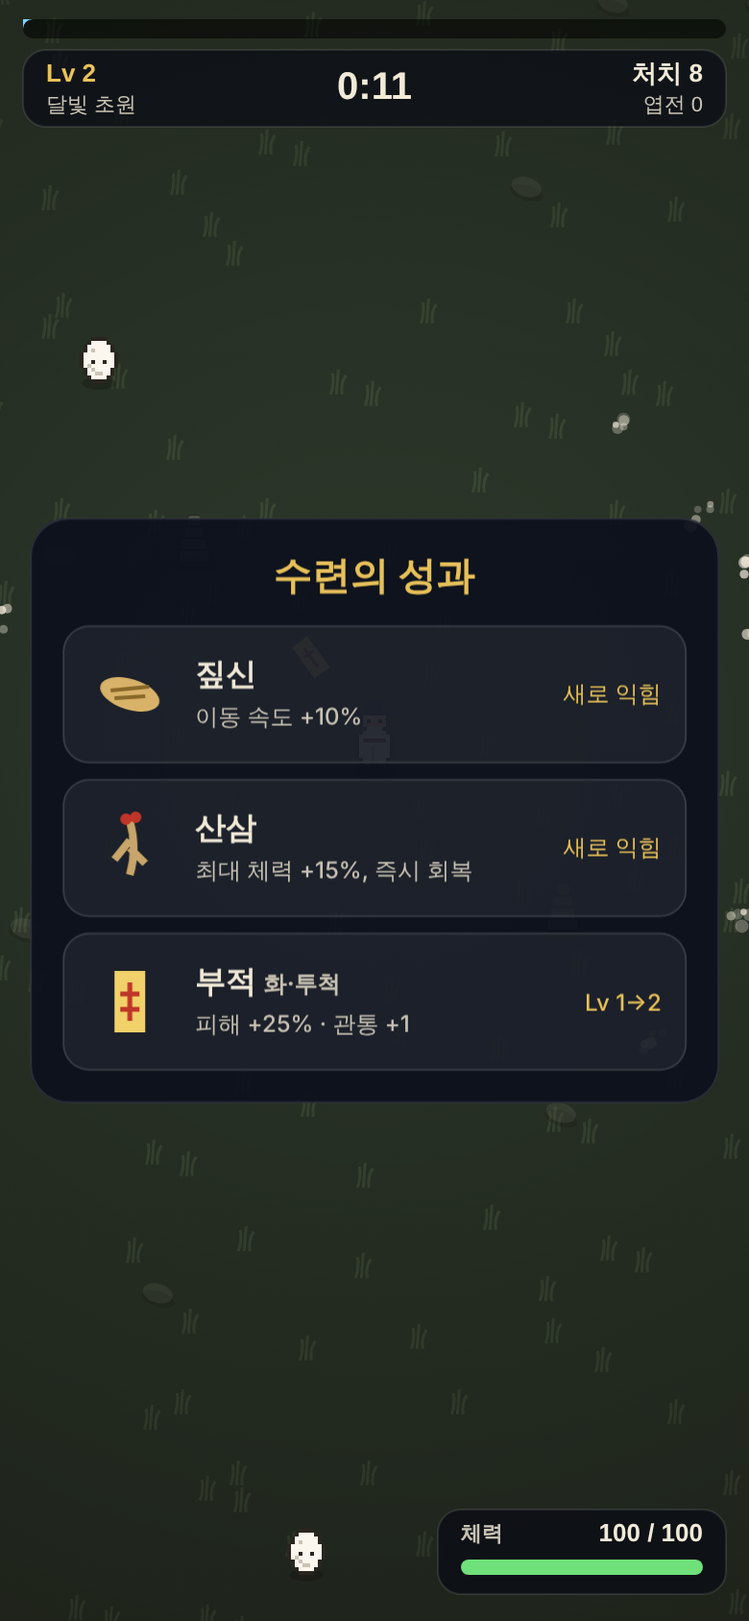
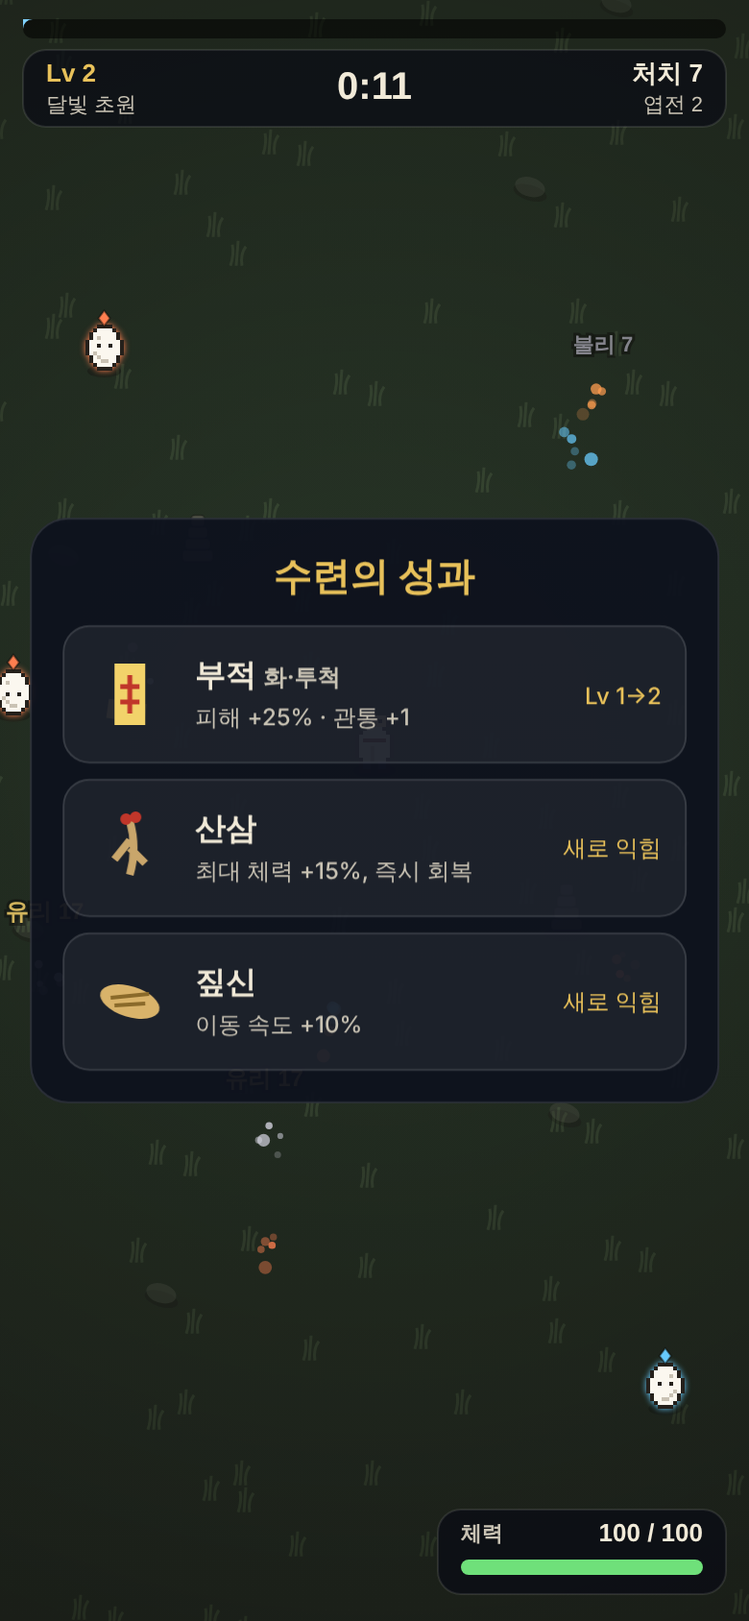
밤의 퇴마사 M3①: 요괴 21종(스테이지 전용 5+2)·스테이지 속성 3 랜덤 부여·보스 고정·선택 화면 표시·도감 그룹
- 귀신의 숲: 달토끼 혼령·처녀귀신·부엉귀·산삼 정령·나무귀신 / 백호(금)·대지네(목)
- 업화 폐사지: 흑까마귀·화마·원귀·골승·석장승 / 재귀(화)·야차왕(금)
- 픽셀 스프라이트 14종, drawEnemy 데이터 주도(anim/sc), 속성 빛 테두리
- 스테이지 4~6 예정 칸, m3-test 8/8

Claude-Session: https://claude.ai/code/session_01RmJvEQYZMU41pMZMsu4AKq

diff --git a/games/night-exorcist/index.html b/games/night-exorcist/index.html
@@ -120,11 +120,15 @@ const TEST = /[?&]test=1/.test(location.search);
 // 수식 — docs/04-night-exorcist/sim/run-sim.mjs 와 동일
 const C = { RUN:600, SPAWN0:1.2, SPAWN_K:.006, HP0:10, HP_G:1.0032, CAP:60, CONTACT:3, HP_PLAYER:100, REGEN:.35, LVL_XP0:12, LVL_XP_G:1.18,
   BOSS1_AT:300, BOSS1_HP:40, BOSS2_AT:540, BOSS2_HP:120, SPEED:110, PICK_R:70, META_G:1.0, META_D:.9 };
+// 스테이지: els = 이 밤에 나오는 속성 3개(잡몹·정예는 스폰 시 랜덤), roster = 전용 잡몹 5, bosses = 전용 보스 2(속성 고정)
 const STAGES = [
-  { id:'field',  name:'달빛 초원',   mul:1.0,  ground:['#17231a','#121b15'], fog:'rgba(120,150,110,.06)', roster:['egg','jiangshi','fire'],   bound:0,   obst:null },
-  { id:'forest', name:'귀신의 숲',   mul:1.45, ground:['#121a16','#0c120f'], fog:'rgba(120,160,140,.12)', roster:['egg','fire','water'],      bound:280, obst:{ tree:.55 } },
-  { id:'temple', name:'업화 폐사지', mul:1.8,  ground:['#1f1612','#140e0b'], fog:'rgba(200,120,60,.08)',  roster:['jiangshi','fire','gumiho'], bound:0,   obst:{ wall:.35, fire:.3 } },
+  { id:'field',  name:'달빛 초원',   mul:1.0,  ground:['#17231a','#121b15'], fog:'rgba(120,150,110,.06)', els:['fire','metal','water'], roster:['egg','fire','water','jiangshi','gumiho'],                 bosses:['boss1','boss2'],       bound:0,   obst:null },
+  { id:'forest', name:'귀신의 숲',   mul:1.45, ground:['#121a16','#0c120f'], fog:'rgba(120,160,140,.12)', els:['wood','water','metal'], roster:['moonhare','maiden','owl','ginseng','treeghost'],          bosses:['whitetiger','centipede'], bound:280, obst:{ tree:.55 } },
+  { id:'temple', name:'업화 폐사지', mul:1.8,  ground:['#1f1612','#140e0b'], fog:'rgba(200,120,60,.08)',  els:['fire','wood','metal'],  roster:['crowflock','flamefiend','wraith','skullmonk','stonestatue'], bosses:['phoenix','yaksha'],    bound:0,   obst:{ wall:.35, fire:.3 } },
+  { id:'p4', name:'(예정)', soon:true }, { id:'p5', name:'(예정)', soon:true }, { id:'p6', name:'(예정)', soon:true },
 ];
+const STAGES_LIVE = STAGES.filter(s => !s.soon);
+const nStages = () => STAGES_LIVE.length;
 const ELITE_AT = [90, 180, 270, 390, 480];   // 정예 등장 시각
 const CHEST = [{ g:'일반', n:1, p:.6, col:'#c9c3b4' }, { g:'레어', n:3, p:.3, col:'#7fd1ff' }, { g:'에픽', n:5, p:.1, col:'#d08cff' }];
 const ARMOR_SPD = { none:1, light:1.12, heavy:.88 };   // 방어구 타입별 이속 편차
@@ -182,14 +186,32 @@ const SND = {
 
 // ───────── 데이터: 적·무기·패시브 ─────────
 const ENEMY = {
-  // el: 속성(화·수·목·금·무) · armor: 방어구(none 보통 / light 가벼움·빠름 / heavy 무거움·느림) — 상성 계수는 덱 시스템과 함께 (M2)
-  egg:      { name:'달걀귀신', hp:1.0, spd:74,  r:11, xp:1, col:'#f0e9dc', from:0,   el:'none',  armor:'none' },
-  fire:     { name:'도깨비불', hp:0.5, spd:125, r:9,  xp:1, col:'#6fd3ff', from:60,  el:'fire',  armor:'light' },
-  jiangshi: { name:'강시',     hp:2.6, spd:84,  r:13, xp:3, col:'#6a8bd8', from:150, el:'metal', armor:'heavy', hop:true },
-  water:    { name:'물귀신',   hp:1.6, spd:92,  r:12, xp:2, col:'#8fd8c8', from:90,  el:'water', armor:'none' },
-  gumiho:   { name:'구미호',   hp:3.5, spd:108, r:14, xp:4, col:'#ffb36b', from:200, el:'wood',  armor:'light' },
-  boss1:    { name:'두억시니', hp:C.BOSS1_HP, spd:70, r:30, xp:40,  col:'#c0463a', boss:true, el:'fire',  armor:'heavy', patterns:['dash','shoot'] },
-  boss2:    { name:'이무기',   hp:C.BOSS2_HP, spd:80, r:38, xp:120, col:'#3fa06a', boss:true, el:'water', armor:'none',  patterns:['dash','pool'] },
+  // armor: 방어구(none 보통 / light 가벼움·빠름 / heavy 무거움·느림). 속성은 스테이지 els 중 스폰 시 랜덤 — 보스만 el 고정
+  // spr: 스프라이트 그리드 · anim: walk(좌우 반전 보행) / float(둥실) / hop(강시) / flicker(빠른 깜빡임) · sc: 배율
+  // ── 달빛 초원
+  egg:        { name:'달걀귀신', hp:1.0, spd:74,  r:11, xp:1, from:0,   armor:'none',  spr:'egg',      anim:'walk' },
+  fire:       { name:'도깨비불', hp:0.5, spd:125, r:9,  xp:1, from:60,  armor:'light', spr:'fire',     anim:'flicker' },
+  water:      { name:'물귀신',   hp:1.6, spd:92,  r:12, xp:2, from:90,  armor:'none',  spr:'water',    anim:'float' },
+  jiangshi:   { name:'강시',     hp:2.6, spd:84,  r:13, xp:3, from:150, armor:'heavy', spr:'jiangshi', anim:'hop', hop:true },
+  gumiho:     { name:'구미호',   hp:3.5, spd:108, r:14, xp:4, from:200, armor:'light', spr:'gumiho',   anim:'walk' },
+  boss1:      { name:'두억시니', hp:C.BOSS1_HP, spd:70, r:30, xp:40,  boss:true, el:'fire',  armor:'heavy', patterns:['dash','shoot'], spr:'boss1', sc:1.6 },
+  boss2:      { name:'이무기',   hp:C.BOSS2_HP, spd:80, r:38, xp:120, boss:true, el:'water', armor:'none',  patterns:['dash','pool'],  spr:'boss2', sc:2.0 },
+  // ── 귀신의 숲
+  moonhare:   { name:'달토끼 혼령', hp:0.8, spd:118, r:10, xp:1, from:0,   armor:'light', spr:'moonhare',  anim:'walk' },
+  maiden:     { name:'처녀귀신',   hp:1.4, spd:80,  r:12, xp:2, from:40,  armor:'none',  spr:'maiden',    anim:'float' },
+  owl:        { name:'부엉귀',     hp:0.9, spd:130, r:10, xp:1, from:90,  armor:'light', spr:'owl',       anim:'flicker' },
+  ginseng:    { name:'산삼 정령',  hp:2.2, spd:62,  r:12, xp:4, from:140, armor:'none',  spr:'ginseng',   anim:'walk' },
+  treeghost:  { name:'나무귀신',   hp:4.0, spd:58,  r:15, xp:4, from:200, armor:'heavy', spr:'treeghost', anim:'walk' },
+  whitetiger: { name:'백호',       hp:C.BOSS1_HP * 1.1, spd:84, r:32, xp:45,  boss:true, el:'metal', armor:'heavy', patterns:['dash','shoot'], spr:'whitetiger', sc:1.7 },
+  centipede:  { name:'대지네',     hp:C.BOSS2_HP * 1.1, spd:90, r:36, xp:130, boss:true, el:'wood',  armor:'none',  patterns:['dash','pool'],  spr:'centipede',  sc:2.0 },
+  // ── 업화 폐사지
+  crowflock:  { name:'흑까마귀', hp:0.7, spd:135, r:10, xp:1, from:0,   armor:'light', spr:'crowflock',   anim:'flicker' },
+  flamefiend: { name:'화마',     hp:1.2, spd:110, r:11, xp:2, from:40,  armor:'light', spr:'flamefiend',  anim:'flicker' },
+  wraith:     { name:'원귀',     hp:1.8, spd:88,  r:12, xp:2, from:90,  armor:'none',  spr:'wraith',      anim:'float' },
+  skullmonk:  { name:'골승',     hp:3.2, spd:72,  r:13, xp:3, from:140, armor:'heavy', spr:'skullmonk',   anim:'walk' },
+  stonestatue:{ name:'석장승',   hp:6.0, spd:40,  r:16, xp:6, from:210, armor:'heavy', spr:'stonestatue', anim:'walk' },
+  phoenix:    { name:'재귀',     hp:C.BOSS1_HP * 1.2, spd:96, r:30, xp:50,  boss:true, el:'fire',  armor:'light', patterns:['dash','shoot'], spr:'phoenix', sc:1.8 },
+  yaksha:     { name:'야차왕',   hp:C.BOSS2_HP * 1.2, spd:76, r:38, xp:140, boss:true, el:'metal', armor:'heavy', patterns:['dash','pool'],  spr:'yaksha',  sc:2.0 },
 };
 // 무기 12종 = 속성 4(화·수·목·금) × 타입 3(throw 투척·melee 근접·aura 오라). 상성: 수→화→금→목→수 유리 ×1.5 / 불리 ×0.6, 투척↔light·근접↔heavy·오라↔none
 const EL_NAME = { fire:'화', water:'수', wood:'목', metal:'금' }, TYPE_NAME = { throw:'투척', melee:'근접', aura:'오라' };
@@ -210,7 +232,7 @@ const WEAPONS = [
   { id:'bell',     el:'metal', type:'aura',  name:'방울',     desc:'주변 요괴를 계속 흔들어 느리게 한다',         cd:.5, dmg:4, range:70, slow:.2, max:5, up:'피해 +25% · 반경 +12%' },
 ];
 const WBY = Object.fromEntries(WEAPONS.map(w => [w.id, w]));
-const affinity = (w, e) => (e.el === 'none' || w.el === e.el ? 1 : BEATS[w.el] === e.el ? 1.5 : BEATS[e.el] === w.el ? .6 : 1) * (TYPE_VS[w.type][e.armor] || 1);
+const affinity = (w, o) => { const el = o.el || (o.d && o.d.el) || 'none', armor = o.armor || (o.d && o.d.armor) || 'none'; return (el === 'none' || w.el === el ? 1 : BEATS[w.el] === el ? 1.5 : BEATS[el] === w.el ? .6 : 1) * (TYPE_VS[w.type][armor] || 1); };
 const CHAL_DECK = ['talisman', 'sword', 'bell', 'spear', 'orb', 'sickle'];   // 주간 챌린지 고정 덱
 const TRAIN = [ { id:'atk', name:'공격', desc:'피해 +12%/단' }, { id:'hp', name:'체력', desc:'최대 체력 +15%/단' }, { id:'regen', name:'회복', desc:'자연 회복 +25%/단' }, { id:'spd', name:'이속', desc:'이동 속도 +4%/단' }, { id:'pick', name:'획득', desc:'보석 범위 +10%/단' } ];
 const trainCost = lv => Math.round(40 * Math.pow(1.6, lv));   // 0→1 40, 1→2 64, … 4→5 262
@@ -269,13 +291,13 @@ const rangeOf = w => w.range * Math.pow(1.12, (P.w[w.id] || 1) - 1);
 function spawn(type, boss, elite) {
   const d = ENEMY[type], st = STAGES[S.stage]; let a = rnd() * 6.283, R = Math.hypot(W, H) * .55 + 30, x = P.x + Math.cos(a) * R, y = P.y + Math.sin(a) * R;
   if (st.bound) { if (Math.abs(y) > st.bound - 20) { x = P.x + (Math.random() < .5 ? -1 : 1) * (W * .6 + 40); y = (Math.random() * 2 - 1) * (st.bound - 30); } }
-  return acquire(E, E_FREE, o => { o.type = type; o.d = d; o.x = x; o.y = y; o.hp = enemyHp(S.t) * d.hp * (elite ? 12 : 1); o.maxhp = o.hp; o.r = d.r * (elite ? 1.4 : 1); o.hit = 0; o.hop = Math.random() * 6.28; o.slow = 0; o.kx = 0; o.ky = 0; o.boss = !!boss; o.elite = !!elite; o.ph = Math.random() * 6.28; o.chargeT = 3; o.charging = 0; o.patT = 2.5; o.burn = 0; o.touchCd = 0; });
+  return acquire(E, E_FREE, o => { o.type = type; o.d = d; o.x = x; o.y = y; o.hp = enemyHp(S.t) * d.hp * (elite ? 12 : 1); o.maxhp = o.hp; o.r = d.r * (elite ? 1.4 : 1); o.hit = 0; o.hop = Math.random() * 6.28; o.slow = 0; o.kx = 0; o.ky = 0; o.boss = !!boss; o.elite = !!elite; o.ph = Math.random() * 6.28; o.chargeT = 3; o.charging = 0; o.patT = 2.5; o.burn = 0; o.touchCd = 0; o.el = d.el || st.els[Math.floor(rnd() * st.els.length)]; });
 }
 function updateEnemies(dt) {
   // 스폰
   if (E.length < C.CAP + 2) { S.spawnAcc += spawnRate(S.t) * dt; const roster = STAGES[S.stage].roster.filter(k => ENEMY[k].from <= S.t); while (S.spawnAcc >= 1 && E.length < C.CAP) { S.spawnAcc -= 1; spawn(roster[Math.floor(rnd() * roster.length)]); } }
-  if (!S.bossDone[0] && S.t >= C.BOSS1_AT) { S.bossDone[0] = true; spawn('boss1', true); SND.boss(); S.shake = 10; toast('두억시니가 나타났다'); }
-  if (!S.bossDone[1] && S.t >= C.BOSS2_AT) { S.bossDone[1] = true; spawn('boss2', true); SND.boss(); S.shake = 12; toast('이무기가 깨어났다 — 동이 틀 때까지 버텨라'); }
+  if (!S.bossDone[0] && S.t >= C.BOSS1_AT) { S.bossDone[0] = true; const o = spawn(STAGES[S.stage].bosses[0], true); SND.boss(); S.shake = 10; toast(`${o.d.name}이(가) 나타났다`); }
+  if (!S.bossDone[1] && S.t >= C.BOSS2_AT) { S.bossDone[1] = true; const o = spawn(STAGES[S.stage].bosses[1], true); SND.boss(); S.shake = 12; toast(`${o.d.name}이(가) 깨어났다 — 동이 틀 때까지 버텨라`); }
   while (S.eliteIdx < ELITE_AT.length && S.t >= ELITE_AT[S.eliteIdx]) { S.eliteIdx++; const roster = STAGES[S.stage].roster; const o = spawn(roster[Math.floor(rnd() * roster.length)], false, true); SND.boss(); toast(`정예 ${o.d.name}이(가) 나타났다`); }
   // 이동 + 분리 (격자 해시)
   const grid = new Map(), cs = 28;
@@ -297,7 +319,7 @@ function updateEnemies(dt) {
     // 접촉 (+ 보스 속성 디버프: 화 → 화상, 수 → 둔화)
     if (o.touchCd > 0) o.touchCd -= dt;
     if (dist < o.r + P.r && contacts < 8 && o.touchCd <= 0) { contacts++; o.touchCd = 1; const dmg = C.CONTACT * (o.boss ? 2.7 : o.elite ? 2 : 1); S.hp -= dmg; S.hitT = .2; S.shake = Math.max(S.shake, o.boss ? 5 : 2); P.x -= dx / dist * (o.boss ? 22 : 10); P.y -= dy / dist * (o.boss ? 22 : 10);
-      float(P.x + (Math.random() - .5) * 24, P.y - 26, '-' + Math.round(dmg), '#ff6a5a', o.boss ? 16 : 13); SND.hurt(); if (o.boss) { if (o.d.el === 'fire') S.burnT = 3; if (o.d.el === 'water') S.slowT = 2; } }
+      float(P.x + (Math.random() - .5) * 24, P.y - 26, '-' + Math.round(dmg), '#ff6a5a', o.boss ? 16 : 13); SND.hurt(); if (o.boss) { if (o.el === 'fire') S.burnT = 3; if (o.el === 'water') S.slowT = 2; } }
     if (dist > Math.hypot(W, H) * .9) { release(E, E_FREE, i); } // 너무 멀면 회수 → 재스폰
   }
   // 적 투사체
@@ -350,7 +372,7 @@ function hurtEnemy(o, dmg, kx, ky) {
 }
 function kill(o) {
   const i = E.indexOf(o); if (i < 0) return; S.kills++; SND.kill();
-  burst(o.x, o.y, o.boss ? 28 : 5, o.d.col, o.boss ? 160 : 70);
+  burst(o.x, o.y, o.boss ? 28 : 5, EL_COL[o.el], o.boss ? 160 : 70);
   dropGem(o.x, o.y, o.d.xp); if (o.boss) { S.coins += 30; S.shardsRun += 3; float(o.x, o.y - 30, o.d.name + ' 퇴치!', '#e8c15a', 18); S.shake = 8; S.freeze = .12; } else if (o.elite) { let r = rnd(), grade = CHEST[0]; for (const g of CHEST) { if (r < g.p) { grade = g; break; } r -= g.p; } CHESTS.push({ x:o.x, y:o.y, grade, t:0, from:o.d.name }); S.coins += 8; S.shardsRun += 1; float(o.x, o.y - 30, `${grade.g} 상자!`, grade.col, 16); S.shake = 5; } else if (Math.random() < .05) { S.coins++; }
   if (!META.codex.includes(o.type)) META.codex.push(o.type);
   release(E, E_FREE, i);
@@ -361,7 +383,7 @@ function dropGem(x, y, v) { acquire(G, G_FREE, g => { g.x = x + (Math.random()-.
 const WCD = {};
 function nearest(maxR) { let best = null, bd = maxR * maxR; for (const o of E) { const d = (o.x - P.x) ** 2 + (o.y - P.y) ** 2; if (d < bd) { bd = d; best = o; } } return best; }
 function hitWith(o, w, dmg, kx, ky) { // 상성·속성 효과 적용 후 피해
-  const af = affinity(w, o.d), d = dmg * af;
+  const af = affinity(w, o), d = dmg * af;
   if (af > 1.2 && (o.boss || o.elite || Math.random() < .25)) float(o.x, o.y - o.r - 8, '유리 ' + Math.round(d), '#ffd86a', 12); else if (af < .8 && (o.boss || o.elite || Math.random() < .25)) float(o.x, o.y - o.r - 8, '불리 ' + Math.round(d), '#9a9aa8', 11);
   if (w.el === 'fire') o.burn = Math.max(o.burn || 0, 2); else if (w.el === 'water') o.slow = Math.max(o.slow, .8); else if (w.el === 'metal') { kx *= 1.6; ky *= 1.6; }
   return hurtEnemy(o, d, kx, ky);
@@ -448,8 +470,51 @@ function float(x, y, txt, col, sz = 14) { FL.push({ x, y, txt, col, sz, life:1.1
 
 
 // ───────── 도트 스프라이트 (문자 격자 → 오프스크린 캔버스, 2x) ─────────
-const PAL = { u:'#5fc8ff', F:'#f2a65a', D:'#6a1a12', d:'#a8352a', O:'#ff8a6a', T:'#fff', g:'#114a2a', M:'#3fa06a', m:'#8ff0b0', K:'#1a1612', H:'#221c17', S:'#f0c9a0', W:'#f4efe2', w:'#c9c0a8', R:'#8a2a2a', B:'#2b2a3a', E:'#fbf8f2', e:'#c8c0b4', L:'#bfeeff', l:'#4fa8e8', N:'#1a1f44', G:'#b8dcc0', Y:'#f2d26a', C:'#5a6fc0', c:'#3a4f9a', r:'#c0362a' };
+const PAL = { u:'#5fc8ff', F:'#f2a65a', D:'#6a1a12', d:'#a8352a', O:'#ff8a6a', T:'#fff', g:'#114a2a', M:'#3fa06a', m:'#8ff0b0', K:'#1a1612', H:'#221c17', S:'#f0c9a0', W:'#f4efe2', w:'#c9c0a8', R:'#8a2a2a', B:'#2b2a3a', E:'#fbf8f2', e:'#c8c0b4', L:'#bfeeff', l:'#4fa8e8', N:'#1a1f44', G:'#b8dcc0', Y:'#f2d26a', C:'#5a6fc0', c:'#3a4f9a', r:'#c0362a', p:'#9a6ad8', P:'#5a3a8a', o:'#e07a2a', b:'#8a5a2a', q:'#4a2e18', k:'#e8e0c8', x:'#8a8a96', X:'#4a4a56', v:'#5ab84a', V:'#2a6a2a', i:'#ff9ad0', a:'#2a2a34', A:'#55556a', f:'#ffd04a', h:'#ff5a2a' };
 const GRIDS = {
+  treeghost: [[
+'....VVVV....','..VVvvvvVV..','.VvvvvvvvvV.','.VvvKvvKvvV.','..VvvvvvvV..','...qbbbbq...','..qbbKKbbq..','.qbbbbbbbbq.','qbbqbbbbqbbq','qbqbbbbbbqbq','..qbbbbbbq..','..qbbbbbbq..','..qbq..qbq..','..qqq..qqq..'],[
+'....VVVV....','..VVvvvvVV..','.VvvvvvvvvV.','.VvvKvvKvvV.','..VvvvvvvV..','...qbbbbq...','..qbbKKbbq..','qbbbbbbbbq..','.qbbqbbbbqbb','bqbbbbbbqbq.','...qbbbbbbq.','.qbbbbbbq...','...qbq..qbq.','.qqq..qqq...']],
+  moonhare: [[
+'..K....K..','.KEK..KEK.','.KEK..KEK.','.KEEKKEEK.','KEEEEEEEEK','KEKEEEEKEK','KEEEiiEEEK','.KEEEEEEK.','.KEEEEEEK.','KEEKEEKEEK','.KKK..KKK.'],[
+'..K....K..','.KEK..KEK.','.KEK..KEK.','.KEEKKEEK.','KEEEEEEEEK','EKEEEEKEK.','.KEEEiiEEE','KEEEEEEK..','..KEEEEEEK','EEKEEKEEK.','..KKK..KKK']],
+  maiden: [[
+'....KKKK....','...KHHHHK...','..KHHHHHHK..','..KHSSSSHK..','..KHSKSKHK..','..KHSSSSHK..','..KHHSSHHK..','.KHHWWWWHHK.','.KHWWWWWWHK.','.KHWWWWWWHK.','..KWWWWWWK..','..KWWWWWWK..','...KWWWWK...','....K..K....'],[
+'....KKKK....','...KHHHHK...','..KHHHHHHK..','..KHSSSSHK..','..KHSKSKHK..','..KHSSSSHK..','..KHHSSHHK..','KHHWWWWHHK..','..KHWWWWWWHK','KHWWWWWWHK..','...KWWWWWWK.','.KWWWWWWK...','....KWWWWK..','...K..K.....']],
+  ginseng: [[
+'....v..v....','...vVvvVv...','....vVVv....','.....KK.....','...KSSSSK...','..KSSKSKSK..','..KSSSSSSK..','.KSSSSSSSSK.','KSSKSSSSKSSK','KSK.SSSS.KSK','...KSSSSK...','...KSKKSK...','...KS..SK...','...KK..KK...'],[
+'....v..v....','...vVvvVv...','....vVVv....','.....KK.....','...KSSSSK...','..KSSKSKSK..','..KSSSSSSK..','KSSSSSSSSK..','.KSSKSSSSKSS','SK.SSSS.KSK.','....KSSSSK..','..KSKKSK....','....KS..SK..','..KK..KK....']],
+  owl: [[
+'.K........K.','KaK......KaK','KaaKKKKKKaaK','KaaaaaaaaaaK','KaAYKaaKYAaK','KaAKYaaYKAaK','KaaaaooaaaaK','KaaAaaaaAaaK','.KaAAaaAAaK.','.KaaAAAAaaK.','..KaaaaaaK..','...KKKKKK...','...Ko..oK...'],[
+'.K........K.','KaK......KaK','KaaKKKKKKaaK','KaaaaaaaaaaK','KaAYKaaKYAaK','KaAKYaaYKAaK','.Kaaaaooaaaa','aaAaaaaAaaK.','..KaAAaaAAaK','KaaAAAAaaK..','...KaaaaaaK.','..KKKKKK....','....Ko..oK..']],
+  whitetiger: [[
+'..KK..............KK..','.KWWK............KWWK.','.KWWWK..........KWWWK.','.KWWWWKKKKKKKKKKWWWWK.','KWWWWWWWWWWWWWWWWWWWWK','KWWKKWWWWWWWWWWWWKKWWK','KWWYKWWWWWWWWWWWWKYWWK','KWWWWWWWKKKKWWWWWWWWWK','KWWWWWWWKiiKWWWWWWWWWK','KWWKWWWWWiiWWWWWWKWWWK','.KWWKWWWWWWWWWWWKWWWK.','.KWWWKKWWWWWWWWKKWWWK.','.KWWWWWWWWWWWWWWWWWWK.','..KWWKKWWWWWWWWKKWWK..','..KWWK..KWWWWK..KWWK..','..KKKK..KKKKKK..KKKK..'],[
+'..KK..............KK..','.KWWK............KWWK.','.KWWWK..........KWWWK.','.KWWWWKKKKKKKKKKWWWWK.','KWWWWWWWWWWWWWWWWWWWWK','KWWKKWWWWWWWWWWWWKKWWK','KWWYKWWWWWWWWWWWWKYWWK','KWWWWWWWKKKKWWWWWWWWWK','.KWWWWWWWKiiKWWWWWWWWW','WWKWWWWWiiWWWWWWKWWWK.','..KWWKWWWWWWWWWWWKWWWK','KWWWKKWWWWWWWWKKWWWK..','..KWWWWWWWWWWWWWWWWWWK','.KWWKKWWWWWWWWKKWWK...','...KWWK..KWWWWK..KWWK.','.KKKK..KKKKKK..KKKK...']],
+  centipede: [[
+'KK......................KK','KpK....................KpK','.KpKKKKKKKKKKKKKKKKKKKKpK.','.KppppppppppppppppppppppK.','KpPpYpPppPppPppPppPppYpPpK','KpPpKpPppPppPppPppPppKpPpK','KppppppppppppppppppppppppK','.KPpPpPpPpPpPpPpPpPpPpPpK.','.KKpKpKpKpKpKpKpKpKpKpKKK.','..K.K.K.K.K.K.K.K.K.K.K...'],[
+'KK......................KK','KpK....................KpK','.KpKKKKKKKKKKKKKKKKKKKKpK.','.KppppppppppppppppppppppK.','KpPpYpPppPppPppPppPppYpPpK','pPpKpPppPppPppPppPppKpPpK.','.Kpppppppppppppppppppppppp','KPpPpPpPpPpPpPpPpPpPpPpK..','..KKpKpKpKpKpKpKpKpKpKpKKK','.K.K.K.K.K.K.K.K.K.K.K....']],
+  skullmonk: [[
+'....kkkk....','...kkkkkk...','..kkKkkKkk..','..kkkkkkkk..','...kkKKkk...','....kkkk....','..KooooooK..','.KoooooooooK','KooKooooKooK','KoK.oooo.KoK','..KoooooooK.','..KoooooooK.','..KoooooooK.','..Kqq..qqK..','..KKK..KKK..'],[
+'....kkkk....','...kkkkkk...','..kkKkkKkk..','..kkkkkkkk..','...kkKKkk...','....kkkk....','..KooooooK..','KoooooooooK.','.KooKooooKoo','oK.oooo.KoK.','...KoooooooK','.KoooooooK..','...KoooooooK','.Kqq..qqK...','...KKK..KKK.']],
+  flamefiend: [[
+'.....h....','....hf....','...hffh...','..hffffh..','.hffKffKh.','.hffffffh.','hffffffffh','hfffKKffff','.hffffffh.','..hhffhh..','...hhhh...','....hh....'],[
+'.....h....','....hf....','...hffh...','..hffffh..','.hffKffKh.','.hffffffh.','.hffffffff','fffKKffff.','..hffffffh','.hhffhh...','....hhhh..','...hh.....']],
+  wraith: [[
+'....KKKK....','...KpppppK..','..KppppppK..','..KpKppKpK..','..KppppppK..','.KppPppPppK.','.KppppppppK.','KppPppppPppK','KpppppppppKK','.KPpPppPpPK.','..KpKpKpK...','..K.K..K.K..'],[
+'....KKKK....','...KpppppK..','..KppppppK..','..KpKppKpK..','..KppppppK..','.KppPppPppK.','..KppppppppK','ppPppppPppK.','.KpppppppppK','KPpPppPpPK..','...KpKpKpK..','.K.K..K.K...']],
+  stonestatue: [[
+'...XXXXXX...','..XxxxxxxX..','..XxKxxKxX..','..XxxxxxxX..','..XxxXXxxX..','..XxxxxxxX..','.XxxxxxxxxX.','.XxxXxxXxxX.','.XxxxxxxxxX.','.XxxxxxxxxX.','.XxxXxxXxxX.','.XxxxxxxxxX.','XxxxxxxxxxxX','XXXXXXXXXXXX'],[
+'...XXXXXX...','..XxxxxxxX..','..XxKxxKxX..','..XxxxxxxX..','..XxxXXxxX..','..XxxxxxxX..','.XxxxxxxxxX.','XxxXxxXxxX..','..XxxxxxxxxX','XxxxxxxxxX..','..XxxXxxXxxX','XxxxxxxxxX..','.Xxxxxxxxxxx','XXXXXXXXXXX.']],
+  crowflock: [[
+'K..........K','KaK......KaK','.KaaK..KaaK.','..KaaKKaaK..','...KaaaaK...','...KaYYaK...','..KaaaooaK..','..KaaaaaaK..','.KaaaaaaaaK.','KaaKaaaaKaaK','KKK.KaaK.KKK','....KoKo....'],[
+'K..........K','KaK......KaK','.KaaK..KaaK.','..KaaKKaaK..','...KaaaaK...','...KaYYaK...','...KaaaooaK.','.KaaaaaaK...','..KaaaaaaaaK','aaKaaaaKaaK.','.KKK.KaaK.KK','...KoKo.....']],
+  phoenix: [[
+'.........hh.........','........hffh........','.......hffffh.......','..h....hfKffh....h..','.hfh...hffffh...hfh.','hfffh..hffffh..hfffh','hffffhhffffffhhffffh','hffffffffffffffffffh','.hffffffffffffffffh.','..hffffffYYffffffh..','...hffffYooYffffh...','....hfffffffffh.....','.....hffhhffh.......','......hh..hh........','......f....f........'],[
+'.........hh.........','........hffh........','.......hffffh.......','..h....hfKffh....h..','.hfh...hffffh...hfh.','hfffh..hffffh..hfffh','hffffhhffffffhhffffh','ffffffffffffffffffh.','..hffffffffffffffffh','.hffffffYYffffffh...','....hffffYooYffffh..','...hfffffffffh......','......hffhhffh......','.....hh..hh.........','.......f....f.......']],
+  yaksha: [[
+'....KKKKKKKKKK....','...KxxxxxxxxxxK...','..KxxYxxxxxxYxxK..','..KxxKxxxxxxKxxK..','..KxxxxxrrxxxxxK..','..KxxxxrrrrxxxxK..','...KxxxxxxxxxxK...','.KKKxxxxxxxxxxKKK.','KxxKKxxxxxxxxKKxxK','KxxK.KxxxxxxK.KxxK','KXXK.KxxxxxxK.KXXK','KXXK.KxxxxxxK.KXXK','.KK..KxxxxxxK..KK.','.....KxxKKxxK.....','.....KxxK.KxxK....','.....KKKK.KKKK....'],[
+'....KKKKKKKKKK....','...KxxxxxxxxxxK...','..KxxYxxxxxxYxxK..','..KxxKxxxxxxKxxK..','..KxxxxxrrxxxxxK..','..KxxxxrrrrxxxxK..','...KxxxxxxxxxxK...','.KKKxxxxxxxxxxKKK.','.KxxKKxxxxxxxxKKxx','xxK.KxxxxxxK.KxxK.','.KXXK.KxxxxxxK.KXX','XXK.KxxxxxxK.KXXK.','..KK..KxxxxxxK..KK','....KxxKKxxK......','......KxxK.KxxK...','....KKKK.KKKK.....']],
+
   hero: [[
 '............','....HHHH....','....HHHH....','....HHHH....','.HHHHHHHHHH.','..KSSSSSSK..','..KSKSSKSK..','..KSSSSSSK..','...KWWWWK...','..KWWWWWWK..','.KWWWWWWWWK.','.KWRRRRRRWK.','.KWWWWWWWWK.','.KWWWwWWWWK.','.KWWWwWWWWK.','.KWWWwWWWWK.','..KWWwWWWK..','..KBB..BBK..','..KBB..BBK..','..KKK..KKK..'],[
 '............','....HHHH....','....HHHH....','....HHHH....','.HHHHHHHHHH.','..KSSSSSSK..','..KSKSSKSK..','..KSSSSSSK..','...KWWWWK...','..KWWWWWWK..','.KWWWWWWWWK.','.KWRRRRRRWK.','.KWWWWWWWWK.','.KWWWwWWWWK.','.KWWWwWWWWK.','.KWWWwWWWWK.','..KWWwWWWK..','.KBB....BBK.','KBB......BBK','KKK......KKK'],[
@@ -511,32 +576,18 @@ function drawEnemy(o, x, y, t) {
   const d = o.d, r = o.r, hit = o.hit > 0;
   ctx.save(); ctx.translate(x, y);
   ctx.fillStyle = 'rgba(0,0,0,.3)'; ctx.beginPath(); ctx.ellipse(0, r * .95, r * .8, r * .3, 0, 0, 6.283); ctx.fill();
-  if (hit) { ctx.shadowColor = '#fff'; ctx.shadowBlur = 10; }
-  if (o.type === 'egg') { blit('egg', Math.floor(t * 4 + o.ph) % 2, 0, r * .95, o.x > P.x, hit); }
-  else if (o.type === 'fire') { blit('fire', Math.floor(t * 9 + o.ph) % 2, 0, r * .9 + Math.sin(t * 7 + o.ph) * 1.5, false, hit); }
-  else if (o.type === 'jiangshi') { const hop = Math.max(0, Math.sin(o.hop)) * 8; blit('jiangshi', hop > 2 ? 1 : 0, 0, r * 1.1 - hop, o.x > P.x, hit); }
-  else if (o.type === '_egg') { const g = ctx.createRadialGradient(-r*.3, -r*.5, 1, 0, 0, r * 1.3); g.addColorStop(0, '#fff'); g.addColorStop(1, '#b9b0a4'); ctx.fillStyle = hit ? '#fff' : g; ctx.beginPath(); ctx.ellipse(0, -r * .2, r * .8, r * 1.05, 0, 0, 6.283); ctx.fill(); ctx.strokeStyle = 'rgba(0,0,0,.4)'; ctx.lineWidth = 1; ctx.stroke(); ctx.strokeStyle = 'rgba(0,0,0,.12)'; ctx.beginPath(); ctx.moveTo(-r*.4, -r*.9); ctx.quadraticCurveTo(-r*.6, -r*.2, -r*.3, r*.6); ctx.stroke(); }
-  else if (o.type === '_fire') { const f = 1 + Math.sin(t * 14 + o.ph) * .12; const g = ctx.createRadialGradient(0, -r*.2, 1, 0, -r*.2, r * 1.4); g.addColorStop(0, '#fff'); g.addColorStop(.35, '#9fe8ff'); g.addColorStop(1, 'rgba(60,140,220,0)'); ctx.fillStyle = g; ctx.beginPath(); ctx.moveTo(0, -r * 1.8 * f); ctx.quadraticCurveTo(r * 1.1, -r * .4, 0, r * .8); ctx.quadraticCurveTo(-r * 1.1, -r * .4, 0, -r * 1.8 * f); ctx.fill(); ctx.fillStyle = '#1a2a44'; ctx.fillRect(-3, -r*.5, 2, 2); ctx.fillRect(1, -r*.5, 2, 2); }
-  else if (o.type === '_jiangshi') { const hop = Math.max(0, Math.sin(o.hop)) * 6; ctx.translate(0, -hop); const g = ctx.createLinearGradient(-r, -r, r, r); g.addColorStop(0, '#7f9ff0'); g.addColorStop(1, '#3a4f9a'); ctx.fillStyle = hit ? '#fff' : g; ctx.beginPath(); ctx.moveTo(-r*.7, -r*.5); ctx.lineTo(r*.7, -r*.5); ctx.lineTo(r*.85, r); ctx.lineTo(-r*.85, r); ctx.closePath(); ctx.fill(); ctx.strokeStyle = 'rgba(0,0,0,.4)'; ctx.lineWidth = 1; ctx.stroke();
-    ctx.strokeStyle = '#2a3366'; ctx.lineWidth = 3; ctx.beginPath(); ctx.moveTo(-r*.5, -r*.1); ctx.lineTo(-r*1.3, -r*.1); ctx.moveTo(r*.5, -r*.1); ctx.lineTo(r*1.3, -r*.1); ctx.stroke(); // 팔 뻗음
-    ctx.fillStyle = '#b8dcc0'; ctx.beginPath(); ctx.arc(0, -r*.95, r*.45, 0, 6.283); ctx.fill(); ctx.fillStyle = '#1a1f44'; ctx.fillRect(-r*.55, -r*1.5, r*1.1, r*.35); ctx.fillStyle = '#f2d26a'; ctx.fillRect(-r*.18, -r*1.15, r*.36, r*.7); ctx.fillStyle = '#c0362a'; ctx.fillRect(-r*.08, -r*1.05, r*.16, r*.5); }
-  else if (o.type === 'water') { blit('water', Math.floor(t * 5 + o.ph) % 2, 0, r * 1.0 + Math.sin(t * 4 + o.ph) * 1.5, o.x > P.x, hit); }
-  else if (o.type === 'gumiho') { blit('gumiho', Math.floor(t * 7 + o.ph) % 2, 0, r * 1.0, o.x > P.x, hit); }
-  else if (o.type === '_water') { const g = ctx.createRadialGradient(0, 0, 1, 0, 0, r * 1.2); g.addColorStop(0, '#d4fff2'); g.addColorStop(1, '#2a7a6a'); ctx.fillStyle = hit ? '#fff' : g; ctx.beginPath(); ctx.arc(0, -r*.2, r * .9, 0, 6.283); ctx.fill(); ctx.strokeStyle = 'rgba(0,0,0,.35)'; ctx.stroke(); ctx.strokeStyle = '#1f4f45'; ctx.lineWidth = 2; for (let k = -1; k <= 1; k++) { ctx.beginPath(); ctx.moveTo(k * r * .4, -r * 1.1); ctx.quadraticCurveTo(k * r * .6, -r * .2, k * r * .35, r * .9); ctx.stroke(); } }
-  else if (o.type === '_gumiho') { const g = ctx.createRadialGradient(0, -r*.3, 1, 0, 0, r * 1.2); g.addColorStop(0, '#ffe3c0'); g.addColorStop(1, '#c86a2a'); ctx.fillStyle = hit ? '#fff' : g; ctx.beginPath(); ctx.ellipse(0, 0, r * .9, r * .75, 0, 0, 6.283); ctx.fill(); ctx.strokeStyle = 'rgba(0,0,0,.35)'; ctx.stroke(); for (let k = 0; k < 5; k++) { const a = -2.6 - k * .35 + Math.sin(t * 3 + k) * .1; ctx.strokeStyle = '#f2a65a'; ctx.lineWidth = 3; ctx.beginPath(); ctx.moveTo(-r*.5, 0); ctx.quadraticCurveTo(Math.cos(a) * r * 1.5, Math.sin(a) * r * 1.5, Math.cos(a) * r * 2.1, Math.sin(a) * r * 2.1); ctx.stroke(); } ctx.fillStyle = '#c86a2a'; ctx.beginPath(); ctx.moveTo(-r*.6, -r*.5); ctx.lineTo(-r*.4, -r*1.2); ctx.lineTo(-r*.1, -r*.6); ctx.moveTo(r*.6, -r*.5); ctx.lineTo(r*.4, -r*1.2); ctx.lineTo(r*.1, -r*.6); ctx.fill(); }
-  else if (o.boss) { blit(o.type, Math.floor(t * 3) % 2, 0, r * .95, o.x > P.x, hit, o.type === 'boss1' ? 1.6 : 2.0); if (o.charging > 0) { ctx.strokeStyle = 'rgba(255,120,80,.7)'; ctx.lineWidth = 3; ctx.beginPath(); ctx.arc(0, 0, r * 1.25, 0, 6.283); ctx.stroke(); }
-    ctx.shadowBlur = 0; ctx.fillStyle = 'rgba(0,0,0,.6)'; ctx.fillRect(-r, -r - 14, r * 2, 6); ctx.fillStyle = o.type === 'boss1' ? '#ff6a4a' : '#5fe08a'; ctx.fillRect(-r, -r - 14, r * 2 * Math.max(0, o.hp / o.maxhp), 6); }
-  // 표식: 속성 점(머리 위) · 방어구(heavy = 발밑 쇠고리, light = 잔상 점)
-  ctx.shadowBlur = 0; if (d.el !== 'none') { ctx.fillStyle = EL_COL[d.el]; ctx.beginPath(); ctx.moveTo(0, -r * 1.55 - 4); ctx.lineTo(3, -r * 1.55); ctx.lineTo(0, -r * 1.55 + 4); ctx.lineTo(-3, -r * 1.55); ctx.closePath(); ctx.fill(); ctx.strokeStyle = 'rgba(0,0,0,.5)'; ctx.lineWidth = 1; ctx.stroke(); }
+  ctx.shadowColor = hit ? '#fff' : EL_COL[o.el]; ctx.shadowBlur = hit ? 10 : 6;   // 속성 빛 테두리
+  const flip = o.x > P.x, sc = d.sc || 1;
+  if (o.boss) { blit(d.spr, Math.floor(t * 3) % 2, 0, r * .95, flip, hit, sc); if (o.charging > 0) { ctx.strokeStyle = 'rgba(255,120,80,.7)'; ctx.lineWidth = 3; ctx.beginPath(); ctx.arc(0, 0, r * 1.25, 0, 6.283); ctx.stroke(); }
+    ctx.shadowBlur = 0; ctx.fillStyle = 'rgba(0,0,0,.6)'; ctx.fillRect(-r, -r - 14, r * 2, 6); ctx.fillStyle = EL_COL[o.el]; ctx.fillRect(-r, -r - 14, r * 2 * Math.max(0, o.hp / o.maxhp), 6); }
+  else if (d.anim === 'hop') { const hop = Math.max(0, Math.sin(o.hop)) * 8; blit(d.spr, hop > 2 ? 1 : 0, 0, r * 1.1 - hop, flip, hit, sc); }
+  else if (d.anim === 'float') blit(d.spr, Math.floor(t * 5 + o.ph) % 2, 0, r * 1.0 + Math.sin(t * 4 + o.ph) * 1.5, flip, hit, sc);
+  else if (d.anim === 'flicker') blit(d.spr, Math.floor(t * 9 + o.ph) % 2, 0, r * .9 + Math.sin(t * 7 + o.ph) * 1.5, flip, hit, sc);
+  else blit(d.spr, Math.floor(t * 4 + o.ph) % 2, 0, r * .95, flip, hit, sc);
+  // 표식: 속성 마름모(머리 위) · 방어구(heavy = 발밑 쇠고리, light = 잔상 점)
+  ctx.shadowBlur = 0; ctx.fillStyle = EL_COL[o.el]; ctx.beginPath(); ctx.moveTo(0, -r * 1.55 - 4); ctx.lineTo(3, -r * 1.55); ctx.lineTo(0, -r * 1.55 + 4); ctx.lineTo(-3, -r * 1.55); ctx.closePath(); ctx.fill(); ctx.strokeStyle = 'rgba(0,0,0,.5)'; ctx.lineWidth = 1; ctx.stroke();
   if (d.armor === 'heavy') { ctx.strokeStyle = 'rgba(200,200,215,.75)'; ctx.lineWidth = 2; ctx.beginPath(); ctx.ellipse(0, r * .95, r * .85, r * .32, 0, 0, 6.283); ctx.stroke(); } else if (d.armor === 'light') { ctx.fillStyle = 'rgba(255,255,255,.5)'; ctx.fillRect(-r * .9 - 4, r * .6, 2, 2); ctx.fillRect(-r * .9 - 8, r * .75, 2, 2); }
   if (o.burn > 0) { ctx.fillStyle = 'rgba(255,150,60,.8)'; ctx.beginPath(); ctx.arc(r * .6, -r * 1.1 + Math.sin(t * 20) * 2, 3, 0, 6.283); ctx.fill(); }
-  if (false) { // (벡터 보스 — 미사용)
-    const g = ctx.createRadialGradient(-r*.3, -r*.4, 2, 0, 0, r * 1.3); g.addColorStop(0, o.type === 'boss1' ? '#ff8a6a' : '#8ff0b0'); g.addColorStop(1, o.type === 'boss1' ? '#6a1a12' : '#114a2a'); ctx.fillStyle = hit ? '#fff' : g;
-    if (o.type === 'boss1') { ctx.beginPath(); ctx.moveTo(-r*.9, r*.9); ctx.lineTo(-r, -r*.3); ctx.lineTo(-r*.45, -r*1.1); ctx.lineTo(0, -r*.8); ctx.lineTo(r*.45, -r*1.1); ctx.lineTo(r, -r*.3); ctx.lineTo(r*.9, r*.9); ctx.closePath(); ctx.fill(); ctx.strokeStyle = 'rgba(0,0,0,.5)'; ctx.lineWidth = 2; ctx.stroke(); ctx.fillStyle = '#ffe36a'; ctx.beginPath(); ctx.arc(-r*.35, -r*.3, r*.13, 0, 6.283); ctx.arc(r*.35, -r*.3, r*.13, 0, 6.283); ctx.fill(); ctx.fillStyle = '#1a0a08'; ctx.beginPath(); ctx.arc(-r*.35, -r*.3, r*.06, 0, 6.283); ctx.arc(r*.35, -r*.3, r*.06, 0, 6.283); ctx.fill(); ctx.strokeStyle = '#fff'; ctx.lineWidth = 2; ctx.beginPath(); ctx.moveTo(-r*.4, r*.3); ctx.lineTo(r*.4, r*.3); ctx.stroke(); for (let k = -2; k <= 2; k++) { ctx.beginPath(); ctx.moveTo(k * r * .16, r * .3); ctx.lineTo(k * r * .16, r * .45); ctx.stroke(); } }
-    else { for (let k = 4; k >= 0; k--) { const a = t * 2 + k * .9, cx = Math.cos(a) * r * .5 * (k / 4), cy = Math.sin(a * 1.3) * r * .4 * (k / 4); ctx.beginPath(); ctx.arc(cx, cy, r * (.9 - k * .12), 0, 6.283); ctx.fill(); ctx.strokeStyle = 'rgba(0,0,0,.45)'; ctx.lineWidth = 1.5; ctx.stroke(); } ctx.fillStyle = '#ffe36a'; ctx.beginPath(); ctx.ellipse(-r*.3, -r*.2, r*.16, r*.1, .4, 0, 6.283); ctx.ellipse(r*.3, -r*.2, r*.16, r*.1, -.4, 0, 6.283); ctx.fill(); ctx.strokeStyle = '#fff'; ctx.lineWidth = 2; ctx.beginPath(); ctx.moveTo(-r*.15, r*.35); ctx.lineTo(-r*.08, r*.6); ctx.moveTo(r*.15, r*.35); ctx.lineTo(r*.08, r*.6); ctx.stroke(); }
-    // 보스 체력바
-    ctx.shadowBlur = 0; ctx.fillStyle = 'rgba(0,0,0,.6)'; ctx.fillRect(-r, -r - 14, r * 2, 6); ctx.fillStyle = o.type === 'boss1' ? '#ff6a4a' : '#5fe08a'; ctx.fillRect(-r, -r - 14, r * 2 * Math.max(0, o.hp / o.maxhp), 6);
-  }
   ctx.restore();
 }
 function drawTree(x, y, sc) { ctx.save(); ctx.translate(x, y); ctx.scale(sc, sc); ctx.fillStyle = 'rgba(0,0,0,.35)'; ctx.beginPath(); ctx.ellipse(0, 4, 14, 5, 0, 0, 6.283); ctx.fill(); ctx.fillStyle = '#3a2a1c'; ctx.fillRect(-3, -16, 6, 20); ctx.strokeStyle = 'rgba(0,0,0,.4)'; ctx.lineWidth = 1; ctx.strokeRect(-3, -16, 6, 20);
@@ -576,7 +627,7 @@ function draw() {
   // 적 (y 정렬)
   const es = E.slice().sort((a, b) => a.y - b.y);
   for (const o of es) { const x = sx(o.x), y = sy(o.y); if (x < -60 || x > W + 60 || y < -60 || y > H + 60) continue;
-    if (o.elite) { ctx.save(); ctx.shadowColor = EL_COL[o.d.el] || '#fff'; ctx.shadowBlur = 18 + Math.sin(t * 8) * 6; drawEnemy(o, x, y, t); ctx.restore(); ctx.strokeStyle = EL_COL[o.d.el] || '#fff'; ctx.lineWidth = 2; ctx.beginPath(); ctx.ellipse(x, y + o.r * .95, o.r * 1.1, o.r * .4, 0, 0, 6.283); ctx.stroke(); ctx.fillStyle = 'rgba(0,0,0,.6)'; ctx.fillRect(x - o.r, y - o.r * 1.4 - 10, o.r * 2, 4); ctx.fillStyle = EL_COL[o.d.el]; ctx.fillRect(x - o.r, y - o.r * 1.4 - 10, o.r * 2 * Math.max(0, o.hp / o.maxhp), 4); }
+    if (o.elite) { ctx.save(); ctx.shadowColor = EL_COL[o.el] || '#fff'; ctx.shadowBlur = 18 + Math.sin(t * 8) * 6; drawEnemy(o, x, y, t); ctx.restore(); ctx.strokeStyle = EL_COL[o.d.el] || '#fff'; ctx.lineWidth = 2; ctx.beginPath(); ctx.ellipse(x, y + o.r * .95, o.r * 1.1, o.r * .4, 0, 0, 6.283); ctx.stroke(); ctx.fillStyle = 'rgba(0,0,0,.6)'; ctx.fillRect(x - o.r, y - o.r * 1.4 - 10, o.r * 2, 4); ctx.fillStyle = EL_COL[o.d.el]; ctx.fillRect(x - o.r, y - o.r * 1.4 - 10, o.r * 2 * Math.max(0, o.hp / o.maxhp), 4); }
     else drawEnemy(o, x, y, t); }
   // 적 투사체
   for (const b of EB) { const x = sx(b.x), y = sy(b.y); const g = ctx.createRadialGradient(x, y, 1, x, y, 9); g.addColorStop(0, '#fff'); g.addColorStop(.4, '#ff9a4a'); g.addColorStop(1, 'rgba(255,80,30,0)'); ctx.fillStyle = g; ctx.beginPath(); ctx.arc(x, y, 9, 0, 6.283); ctx.fill(); }
@@ -633,7 +684,7 @@ const mastery = id => S.chal ? 0 : (META.owned[id] || 0);
 function startGame() {
   audio(); SND.start(); logEvent('start', null, runVariant('start')); show('menu', false); show('over', false);
   S.mode = 'play'; S.t = 0; S.lvl = 1; S.xp = 0; S.need = C.LVL_XP0; S.kills = 0; S.coins = 0; S.spawnAcc = 0; S.bossDone = [false, false]; S.cleared = S.dead = false; S.hitT = S.freeze = S.shake = S.flash = S.burnT = S.slowT = 0; S.eliteIdx = 0; S.shardsRun = 0; EB.length = 0; ZONE.length = 0; CHESTS.length = 0; OB.clear();
-  S.stage = S.chal ? 0 : Math.min(STAGES.length - 1, Math.max(0, (META.stage || 1) - 1), META.bestStage); S.pw = S.chal ? 1 : metaPower(); S.deck = S.chal ? CHAL_DECK.slice() : META.deck.filter(id => WBY[id]); if (!S.deck.length) S.deck = ['talisman']; S.shardsRun = 0;
+  S.stage = S.chal ? 0 : Math.min(nStages() - 1, Math.max(0, (META.stage || 1) - 1), META.bestStage); S.pw = S.chal ? 1 : metaPower(); S.deck = S.chal ? CHAL_DECK.slice() : META.deck.filter(id => WBY[id]); if (!S.deck.length) S.deck = ['talisman']; S.shardsRun = 0;
   E.length = 0; B.length = 0; G.length = 0; FX.length = 0; FL.length = 0; SLASH.length = 0; for (const k in WCD) WCD[k] = 0;
   P.x = P.y = 0; P.dx = 0; P.dy = 1; P.w = { [S.deck[0]]:1 }; P.p = {}; cam.x = cam.y = 0; S.maxhp = C.HP_PLAYER * mHp(); S.hp = S.maxhp; applyPassives(); rndState = S.chal ? S.chal.seed : 1;
   JOY.on = false;
@@ -649,7 +700,7 @@ function endRun(cleared) {
     else if (META.runs === 2 && META.owned.bell == null) { META.owned.bell = 0; META.deck.push('bell'); unlockMsg = '방울을 익혔다 · 사당이 열렸다 (엽전 수련 · 부적 조각 뽑기)'; }
     else if (META.runs === 3) { META.shards += 10; unlockMsg = '부적 조각 10개 — 사당에서 첫 뽑기를 해보자'; } }
   const newBest = !S.chal && S.t > (META.best.time || 0); if (newBest) META.best = { time:S.t, kills:S.kills };
-  if (cleared && !S.chal && META.bestStage < S.stage + 1) { META.bestStage = S.stage + 1; toast(S.stage + 1 < STAGES.length ? `${STAGES[S.stage + 1].name} 해금!` : '모든 밤을 이겨냈다'); } renderStages();
+  if (cleared && !S.chal && META.bestStage < S.stage + 1) { META.bestStage = S.stage + 1; toast(S.stage + 1 < nStages() ? `${STAGES[S.stage + 1].name} 해금!` : '모든 밤을 이겨냈다 — 다음 밤은 준비 중'); } renderStages();
   saveMeta();
   document.getElementById('ovTitle').textContent = cleared ? '동이 텄다' : '쓰러졌다';
   document.getElementById('ovSub').textContent = cleared ? `${STAGES[S.stage].name}의 밤을 이겨냈다` : S.t >= C.BOSS2_AT ? '이무기 앞에서…' : S.t >= C.BOSS1_AT ? '두억시니에게…' : '요괴 떼에 둘러싸였다';
@@ -665,7 +716,12 @@ document.getElementById('startBtn').addEventListener('click', startGame);
 document.getElementById('againBtn').addEventListener('click', () => { S.chal = null; startGame(); });
 document.getElementById('homeBtn').addEventListener('click', () => { S.chal = null; show('over', false); S.mode = 'menu'; show('menu', true); renderMenu(); });
 document.addEventListener('visibilitychange', () => { if (document.hidden) { if (S.mode === 'play') { JOY.on = false; } saveMeta(); if (S.mode === 'play') logEvent('over', Math.floor(S.t), runVariant('leave')); } });
-function renderStages() { const box = document.getElementById('stages'); box.innerHTML = ''; STAGES.forEach((st, i) => { const b = document.createElement('button'); b.className = 'ghost'; b.style.flex = '1'; b.style.padding = '0 6px'; b.style.fontSize = '13px'; const locked = i > META.bestStage; b.textContent = locked ? `🔒 ${st.name}` : st.name; b.disabled = locked; b.style.opacity = locked ? .45 : 1; if (META.stage - 1 === i) { b.style.background = 'rgba(232,193,90,.2)'; } b.addEventListener('click', () => { META.stage = i + 1; saveMeta(); renderStages(); }); box.appendChild(b); }); }
+function renderStages() { const box = document.getElementById('stages'); box.innerHTML = ''; box.style.flexWrap = 'wrap';
+  STAGES.forEach((st, i) => { const b = document.createElement('button'); b.className = 'ghost'; b.style.flex = '1 1 30%'; b.style.padding = '6px 4px'; b.style.fontSize = '12px'; b.style.lineHeight = '1.3'; b.style.minHeight = '58px';
+    if (st.soon) { b.innerHTML = `<span style="opacity:.5">${i + 1}. ${st.name}</span>`; b.disabled = true; b.style.opacity = .4; box.appendChild(b); return; }
+    const locked = i > META.bestStage; const els = st.els.map(e => `<span class="el-${e}">${EL_NAME[e]}</span>`).join(' '); const bosses = st.bosses.map(id => `<span class="el-${ENEMY[id].el}">${ENEMY[id].name}</span>`).join('·');
+    b.innerHTML = `<b>${locked ? '🔒 ' : ''}${st.name}</b><br><small>${els} · ×${st.mul}</small><br><small style="color:#c9c3b4">${bosses}</small>`; b.disabled = locked; b.style.opacity = locked ? .45 : 1;
+    if (META.stage - 1 === i) b.style.background = 'rgba(232,193,90,.2)'; b.addEventListener('click', () => { META.stage = i + 1; saveMeta(); renderStages(); }); box.appendChild(b); }); }
 // ───────── 사당 ─────────
 let shTab = 'train';
 function renderMenu() { renderStages(); document.getElementById('shrineBtn').classList.toggle('hide', META.runs < 2); document.getElementById('chalBtn').classList.toggle('hide', META.runs < 1); menuBest(); }
@@ -684,7 +740,11 @@ function renderShrine() {
     const g = document.createElement('div'); g.className = 'grid'; for (const w of WEAPONS) { if (META.owned[w.id] == null) continue; const inDeck = META.deck.includes(w.id), el = document.createElement('button'); el.className = 'w' + (inDeck ? ' in' : ''); el.innerHTML = `<canvas width="56" height="56"></canvas>${w.name}<small class="el-${w.el}">${EL_NAME[w.el]}·${TYPE_NAME[w.type]}${inDeck ? ' · ' + (META.deck.indexOf(w.id) + 1) + '번' : ''}</small>`; drawIcon(el.querySelector('canvas'), { d:w }, 1.3);
       el.addEventListener('click', () => { if (inDeck) { if (META.deck.length > 1) META.deck = META.deck.filter(x => x !== w.id); else toast('무기는 하나 이상 넣어야 해요'); } else if (META.deck.length < 10) META.deck.push(w.id); else toast('덱은 10개까지'); saveMeta(); renderShrine(); }); g.appendChild(el); } b.appendChild(g);
     const h = document.createElement('p'); h.className = 'msg'; h.innerHTML = '상성: <span class="el-water">수</span>→<span class="el-fire">화</span>→<span class="el-metal">금</span>→<span class="el-wood">목</span>→<span class="el-water">수</span> (유리 ×1.5 / 불리 ×0.6) · 투척은 가벼운 요괴, 근접은 무거운 요괴, 오라는 보통 요괴에 강함'; b.appendChild(h); }
-  else { const g = document.createElement('div'); g.className = 'grid'; g.style.gridTemplateColumns = 'repeat(3,1fr)'; for (const [id, e] of Object.entries(ENEMY)) { const seen = META.codex.includes(id), el = document.createElement('div'); el.className = 'w' + (seen ? '' : ' off'); el.innerHTML = seen ? `<b>${e.name}</b><small class="el-${e.el}">${EL_NAME[e.el] || '무'} · ${e.armor === 'heavy' ? '무거움' : e.armor === 'light' ? '가벼움' : '보통'}${e.boss ? ' · 보스' : ''}</small>` : '<b>???</b><small>미발견</small>'; g.appendChild(el); } b.appendChild(g); }
+  else { for (const st of STAGES_LIVE) { const h = document.createElement('p'); h.className = 'msg'; h.innerHTML = `<b style="color:#e8c15a">${st.name}</b> · ${st.els.map(e => `<span class="el-${e}">${EL_NAME[e]}</span>`).join(' ')}`; b.appendChild(h);
+      const g = document.createElement('div'); g.className = 'grid'; g.style.gridTemplateColumns = 'repeat(4,1fr)'; g.style.marginBottom = '8px';
+      for (const id of [...st.roster, ...st.bosses]) { const e = ENEMY[id], seen = META.codex.includes(id), el = document.createElement('div'); el.className = 'w' + (seen ? '' : ' off'); el.innerHTML = `<canvas width="56" height="56"></canvas>` + (seen ? `${e.name}<small>${e.boss ? `<span class="el-${e.el}">${EL_NAME[e.el]}</span> 보스` : e.armor === 'heavy' ? '무거움' : e.armor === 'light' ? '가벼움' : '보통'}</small>` : '???<small>미발견</small>'); g.appendChild(el);
+        const cx = el.querySelector('canvas').getContext('2d'); const sp = sprite(e.spr, 0, false); cx.imageSmoothingEnabled = false; const k = Math.min(48 / sp.width, 48 / sp.height); if (!seen) cx.globalAlpha = .25; cx.drawImage(sp, 28 - sp.width * k / 2, 28 - sp.height * k / 2, sp.width * k, sp.height * k); }
+      b.appendChild(g); } }
 }
 function gacha() { if (META.shards < GACHA_COST) return null; META.shards -= GACHA_COST; const w = WEAPONS[Math.floor(Math.random() * WEAPONS.length)]; let html;
   if (META.owned[w.id] == null) { META.owned[w.id] = 0; if (META.deck.length < 10) META.deck.push(w.id); html = `<span class="el-${w.el}">✦ ${w.name}</span> 획득!<br><small>${EL_NAME[w.el]}·${TYPE_NAME[w.type]} — 덱에 추가됨</small>`; SND.dawn(); }
@@ -712,7 +772,7 @@ let last = 0, frameMs = [];
 function frame(ts) { let dt = (ts - last) / 1000 || 0; last = ts; if (dt > .1) dt = .1; const t0 = performance.now();
   if (S.mode === 'play') tick(dt); fx(dt); draw(); if (TEST) { frameMs.push(performance.now() - t0); if (frameMs.length > 600) frameMs.shift(); } requestAnimationFrame(frame); }
 requestAnimationFrame(frame);
-if (TEST) window.GAME = { S, P, E, B, G, EB, ZONE, CHESTS, META, WBY, affinity, gacha, openShrine, renderShrine, openChal, CHAL_DECK, TRAIN, trainCost, hitWith, migrate, isoWeek, hashStr, openChest, bossPattern, nearObst, ELITE_AT, C, STAGES, WEAPONS, PASSIVES, tick, startGame, endRun, spawn, kill, levelUp, pick, choices, inputVec, KEY, JOY, frameMs: () => frameMs, enemyHp, hurtEnemy };
+if (TEST) window.GAME = { S, P, E, B, G, EB, ZONE, CHESTS, META, WBY, ENEMY, GRIDS, affinity, gacha, openShrine, renderShrine, openChal, CHAL_DECK, TRAIN, trainCost, hitWith, migrate, isoWeek, hashStr, openChest, bossPattern, nearObst, ELITE_AT, C, STAGES, WEAPONS, PASSIVES, tick, startGame, endRun, spawn, kill, levelUp, pick, choices, inputVec, KEY, JOY, frameMs: () => frameMs, enemyHp, hurtEnemy };
 </script>
 </body>
 </html>
